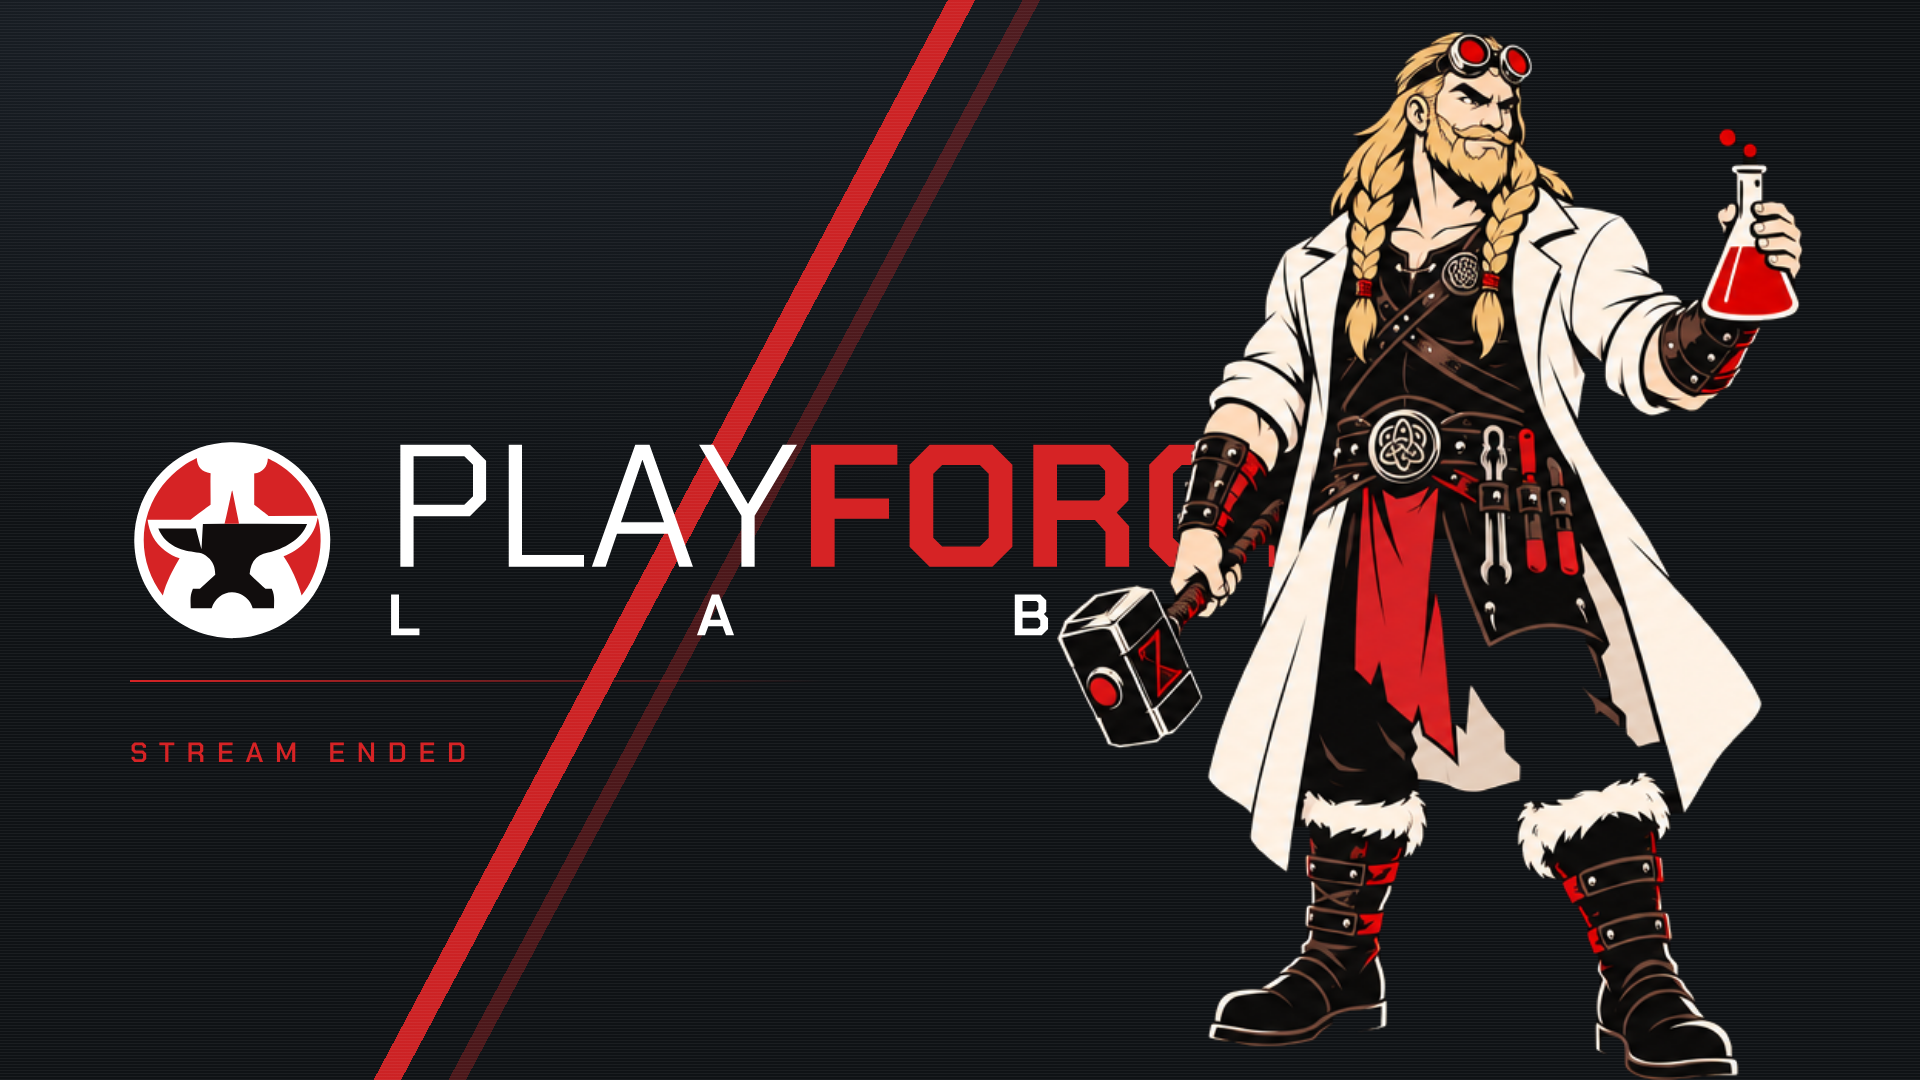
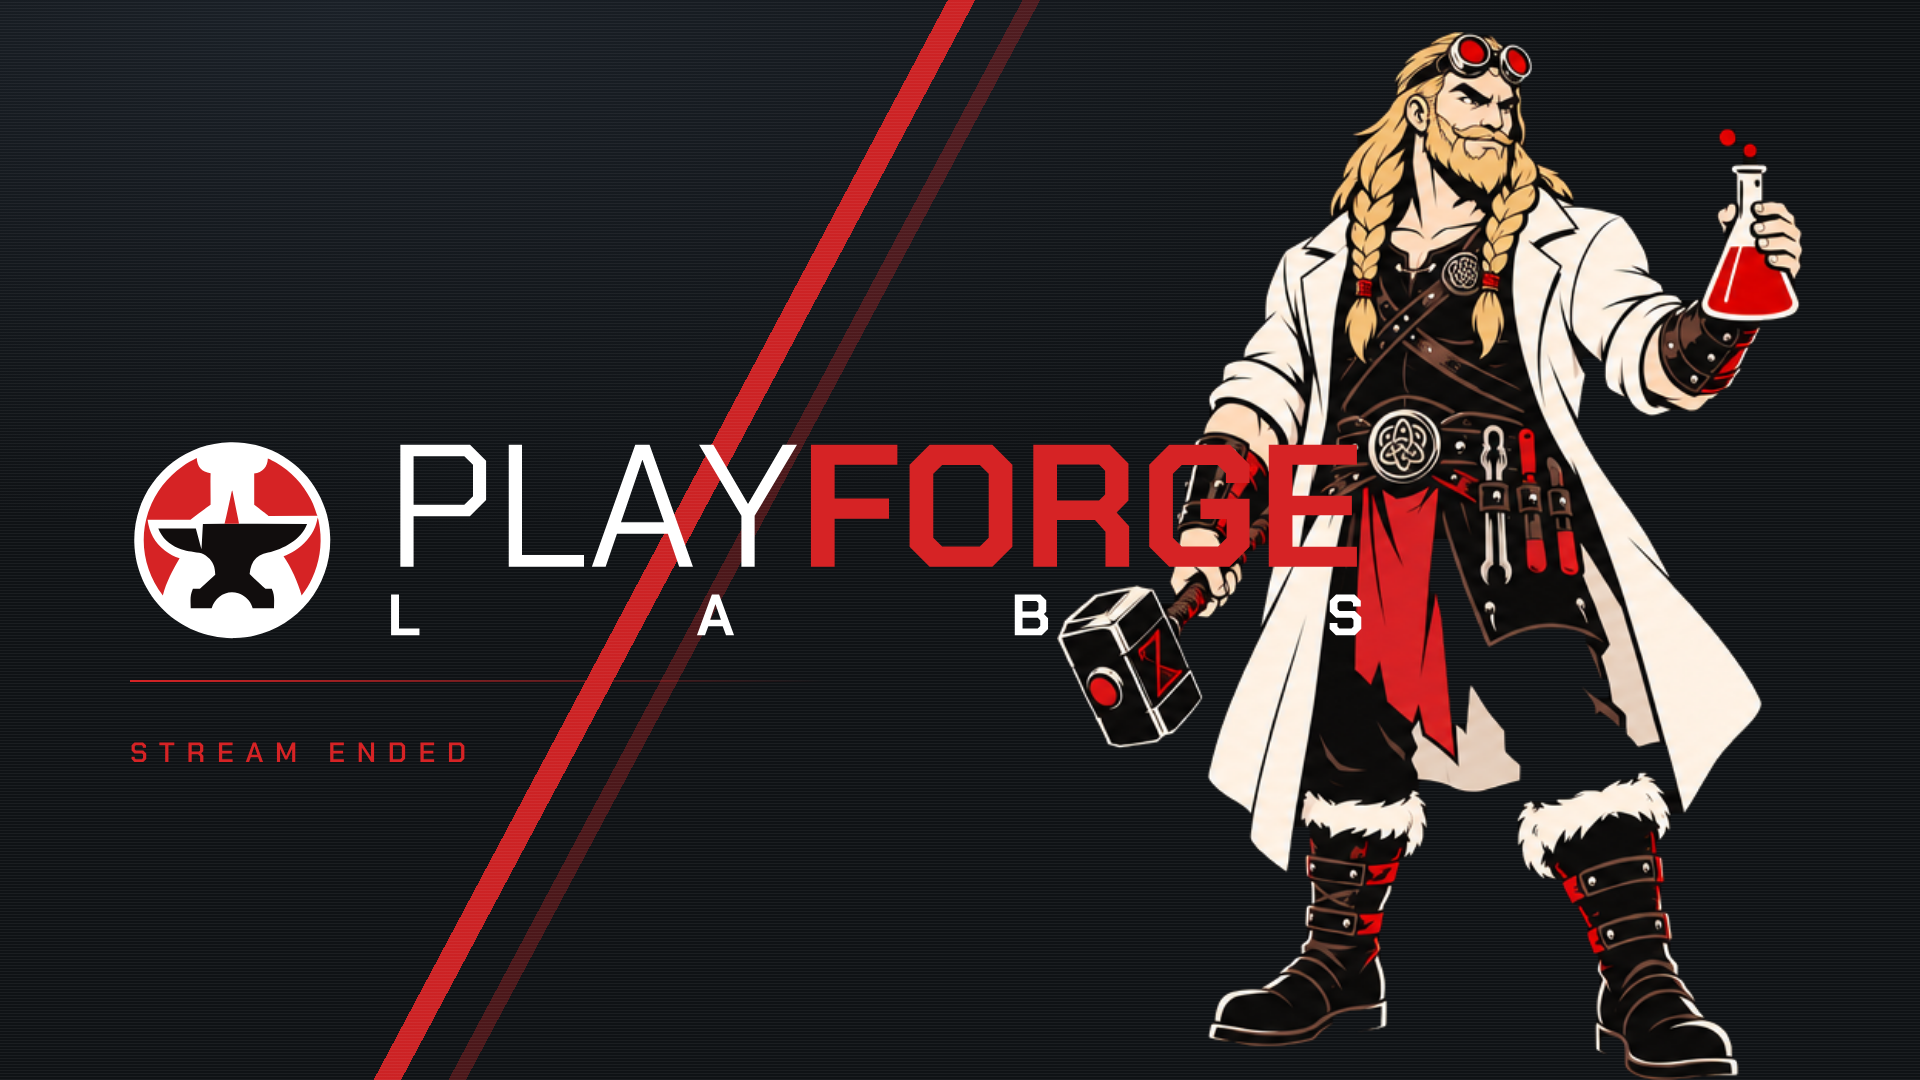
Put the mascot behind the wordmark, not in front
The z-order was inverted: the mascot was painted over the type, hiding the
end of FORGE and LABS. The wordmark now sits in front, so the full name
reads while the mascot passes behind it.

Applied to Twitch and Kick offline screens and banners.

Claude-Session: https://claude.ai/code/session_01VQpikmwb7K7sP9jWmUW1g1

Changed region(s): [[0.5938, 0.3972, 0.7188, 0.6111]]

diff --git a/brand/tools/channel.js b/brand/tools/channel.js
@@ -70,13 +70,13 @@ function overlap(s) {
   return `
    <div class="shard"></div><div class="grain"></div>
    <div class="lock" style="position:absolute;left:${s.pad}px;top:50%;
-        transform:translateY(-50%);width:${s.lock}px;z-index:1">${L}</div>
+        transform:translateY(-50%);width:${s.lock}px;z-index:3">${L}</div>
    <div class="rule" style="position:absolute;left:${s.pad}px;top:63%;
-        width:${Math.round(s.lock*0.56)}px;margin:0;z-index:1"></div>
+        width:${Math.round(s.lock*0.56)}px;margin:0;z-index:3"></div>
    <div class="label" style="position:absolute;left:${s.pad}px;top:68%;
-        font-size:${s.ls}px;z-index:1">${s.label}</div>
+        font-size:${s.ls}px;z-index:3">${s.label}</div>
    <img src="${PLATE}" style="position:absolute;right:${Math.round(s.pad*0.9)}px;bottom:0;
-        height:${s.plate};object-fit:contain;object-position:bottom;z-index:2">`;
+        height:${s.plate};object-fit:contain;object-position:bottom;z-index:1">`;
 }
 
 function render(s) {
